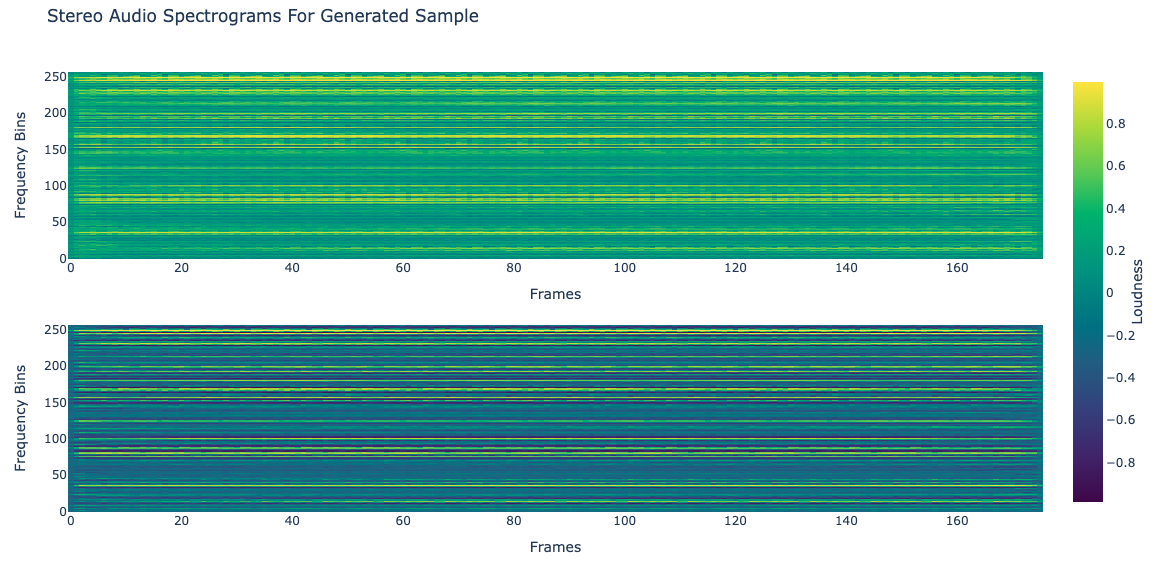
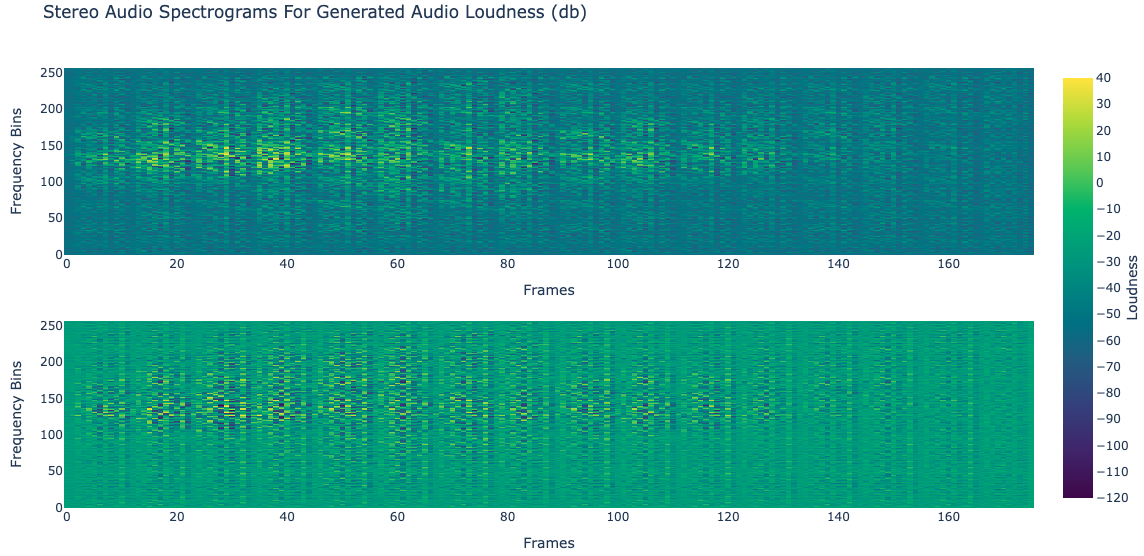
working more on my stuff it makes no sense BRUH

diff --git a/src/utils/helpers.py b/src/utils/helpers.py
@@ -124,7 +124,7 @@ def scale_data_to_range(data, new_min, new_max):
 
 
 # Graphing
-def graph_spectrogram(audio_data, sample_name):
+def graph_spectrogram(audio_data, sample_name, graphScale=10):
     fig = sp.make_subplots(rows=2, cols=1)
     for i in range(2):
         channel = audio_data[i]
@@ -148,8 +148,7 @@ def graph_spectrogram(audio_data, sample_name):
                 title="Loudness",
                 titleside="right",
                 ticksuffix="",
-                x=1.02,
-                dtick=0.2,
+                dtick=graphScale,
             ),
         )
     )
@@ -245,12 +244,17 @@ def istft_hybrid(amplitudes):
 
 def amplitudes_to_wav(amplitudes, name):
     audio_channels = []
-    for channel_loudness in amplitudes:
-        channel_amplitudes = scale_normalized_db_to_amplis(channel_loudness)
+    loudness_info = []
 
+    for channel_loudness in amplitudes:
+        channel_db_loudnes = scale_data_to_range(channel_loudness, -120, 40)
+        loudness_info.append(channel_db_loudnes)
+
+        channel_amplitudes = scale_normalized_db_to_amplis(channel_loudness)
         audio_signal = istft_hybrid(channel_amplitudes)
         audio_channels.append(audio_signal)
 
+    graph_spectrogram(loudness_info, "Generated Audio Loudness (db)", 10)
     audio_stereo = np.vstack(audio_channels)
 
     output_path = os.path.join(audio_output_dir, f"{name}.wav")

diff --git a/src/generate.py b/src/generate.py
@@ -19,5 +19,4 @@ with torch.no_grad():
 
 generated_output = generated_output.squeeze().numpy()
 print("Generated output shape:", generated_output.shape)
-graph_spectrogram(generated_output, "Generated Sample")
 amplitudes_to_wav(generated_output, "DCGAN_generated_audio")

diff --git a/paper/main.md b/paper/main.md
@@ -1,6 +1,8 @@
 # Kick it Out: Limitations to Two Channel Audio Generation With a Deep Convolution Generative Network
 
-#todo: after written, rewrite everything with like the better clearer idea of like bigger differences of what is happening here that's more novel and new result or whatever- like the two channell gen not happening whereas specgan 1 channel works or whatever like figure out better whast novel here and whatever THEN can send it out to whoever whaytever
+#todo: after written, rewrite everything with like the better clearer idea of like bigger differences of what is happening here that's more novel and new result or whatever- like the two channell gen not happening whereas specgan 1 channel works or whatever like figure out better whast novel here and whatever THEN can send it out to whoever whaytever like make clear the goals are to haev the like stero signal and the kick drum specifically and pure ish dcgan.
+
+REWRITE THE FIRST FEW PARAGRAPHS TO REFLECT THIS LIKE BIGGER DIFFERENCE THING LIKE MY OVERALL GOALS BEING DIFF THAN USE CASE FOR SPECGAN THEN WRITE ABT RESULTS IM DONE TRYING TO FIX THIS SHIT LOL
 
 Abhay Shukla\
 abhayshuklavtr@gmail.com\
@@ -9,7 +11,6 @@ Continuation of UCLA COSMOS 2024 Research
 ## Abstract
 
 \_\_\_GENERATE ALL IMAGES NEWLY BC NEW STUFF OR WTV JST LIKE ALL IMAGES USED DONT GO OFF OLD IMAGES JUST GEENRATE EVERYTHING MYSELF
-\_\_\_ALSO TRY CHANING ARCHITECURE TO BE 8 LAYERS AND HAVE OUTPUT 256,256 BEFORE UPSCALE
 
 ## Introduction
 
@@ -46,9 +47,9 @@ Generated audio representaions are a tensor of the same shape with values betwee
 
 ## Implementation
 
-The model itself is is a standard DCGAN model[1] with two slight modifcations, upsampling and phase shuffling. The Generator takes in 100 latent dimensions and passes it into 9 convolution transpose blocks, each consisting of a convolution transpose layer, batch normalization layer, and ReLU activation. After convolving, the Generator upsamples the output from a two channel 256 by 256 output to to a two channel output of frames by frequency bins and applies a hyperbolic tangent activation function. The Discriminator upscales audio from frames by frequency bins to 256 by 256 to then pass through 9 convolution blocks, each consisting of a convolution layer with spectral normalization, batch normalization layer, leaky ReLU activation, and phase shuffle layer. After convolution, the probability of an audio clip audio being real is returned using a sigmoid function.
+The model itself is is a standard DCGAN model[1] with two slight modifcations, upsampling and phase shuffling. The Generator takes in 100 latent dimensions and passes it into 9 convolution transpose blocks, each consisting of a convolution transpose layer, a batch normalization layer, and a ReLU activation. After convolving, the Generator upsamples the output from a two channel 256 by 256 output to to a two channel output of frames by frequency bins and applies a hyperbolic tangent activation function. The Discriminator upscales audio from frames by frequency bins to 256 by 256 to then pass through 9 convolution blocks, each consisting of a convolution layer with spectral normalization to prevent model collapse, a batch normalization layer, and a Leaky ReLU activation. After convolution, the probability of an audio clip audio being real is returned using a sigmoid activation.
 
-This work uses 80% of the dataset as training data and 20% as validation with all data split into batches of 8. The loss function is Binary Cross Entropy with Logit Loss and both the generator and discriminator use the Adam optimizer with seperate learning rates. Due to hardware limitations, the model is trained over ten epochs. Validation occurs every 5 epochs and label smoothing is also applied.
+This work uses 80% of the dataset as training data and 20% as validation with all data split into batches of 8. The loss function is Binary Cross Entropy with Logit Loss and both the generator and discriminator use the Adam optimizer with seperate learning rates. Due to hardware limitations, the model is trained over ten epochs. Validation occurs every 5 epochs and label smoothing is also applied to prevent overconfidence.
 
 ## Results
 
@@ -56,14 +57,29 @@ This work uses 80% of the dataset as training data and 20% as validation with al
 
 In mostly every training loop, generator and discriminator loss always tends to flatline around epoch 3-5, followedby discriminator loss either also flatlining or marinally reducing. Validation loss also consistently remains around the same amount or increases.
 
-When analyzing generated audio, the model appears to learning to create long horizontal lines spanning the entire sample. Each generated output also appears contain little to no differences between each other. The model fails in learning both the spatial and temporal patterns that any kick drum contains.
+When analyzing generated audio, it is apparent that the model is creating some periodic noise pattern with some sort of sound in the middle of the frequency spectrum. Each generated output also appears contain little to no differences between each other.
 ![Output spectrogram](static/model-output.png)
 
-While natural/virtual images contain overarching patterns, audio data is usualy more periodic, thus the generator is able to learn to generate random lines and the discriminator believes it to be kick drums.
+intuition/reasoning idea for why it doesnt work (maybe?)
+
+- decaying shape exists but details of shape vary, some samples decay longer some decay smapper
+- subtle complexities stop gan from perfect replication (one sample w/ super long decay makes it question all other short decay samples?? figure out if this is fr)
+- discrim could be fousing on
+
+no this doesnt make sense
+This periodic audio could be generating because of how DCGANs comprehend information. Convolution as process is more than capable of understanding patterns in local areas, in fact this was the very problem they were designed to solve [cite], and convolution can equally well understand how "local" patterns change over the whole image. With this intution, DCGANs should be more than fine generating images, but audio data often displays more usualy more periodicity and uniformity. These factors make it tougher
+
+While natural/virtual images contain patterns and textures, audio data is usualy more periodic and uniform.
+
+As a result, a discriminator could be fooled into believing random periodic noisy textures are the same as a kick drum because it can't properly understand the spatial and temporal correlations between the different parts of a kick drum (see Data Manipulation: Collection.) This stage is unfortunately where pure DCGAN image audio representation generation falls apart, it's simply not possible for these models to understamd.
 
 [show learned kernels]
 
 audio waveforms very periodic, need to do something so it doesnt learn to just generate fake lines
+
+proposed model collapse fix only makes worse
+
+for it to work need to optimize for kind of data, cant just use image gen
 
 ### Sine Validation
 
